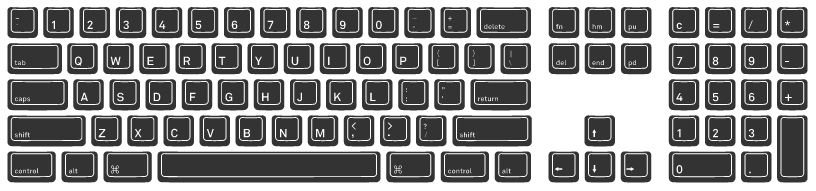
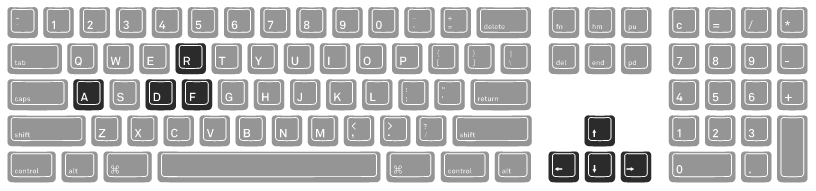
settings page finished, keyboard shortcut help finished

diff --git a/client/settings/index.html b/client/settings/index.html
@@ -4,7 +4,7 @@
   <title>settings</title>
   <meta http-equiv="Content-Type" content="text/html;charset=utf-8">
 
-  <link type="text/css" rel="stylesheet" href="/raindrop/rd_list/index.css">
+  <!--<link type="text/css" rel="stylesheet" href="/raindrop/rd_list/index.css">-->
   <link type="text/css" rel="stylesheet" href="index.css">
 
   <script charset="utf-8" src="/_utils/script/jquery.js?1.3.1"></script>
@@ -52,7 +52,7 @@
     <form id="<%=id%>" class="account <%=kind%>">
       <strong class="name">IMAP</strong>
       <span class="url"><%=host%></span>
-      <a editid="<%=id%>" docid="<%=_id%>" class="delete">delete</a>
+      <a editid="<%=id%>" docid="<%=_id%>" class="delete"></a>
       <table class="login">
         <tr>
           <td><label for="imap-username">username:</label></td>
@@ -73,7 +73,7 @@
         <tr>
           <td>&nbsp;</td>
           <td style="text-align:right;">
-            <button>update</button>
+            <button>ok &#x2714;</button>
           </td>
         </tr>
       </table>
@@ -83,7 +83,7 @@
   <script id="twitterAccountTemplate" type="text/html">
     <form id="<%=id%>" class="account <%=kind%>">
       <strong class="name">Twitter</strong>
-      <a editid="<%=id%>" docid="<%=_id%>" class="delete">delete</a>
+      <a editid="<%=id%>" docid="<%=_id%>" class="delete"></a>
       <span class="url">twitter.com<span class="twitter.com"><%=username%></span></span>
       <table class="login">
         <tr>
@@ -97,7 +97,7 @@
         <tr>
           <td>&nbsp;</td>
           <td style="text-align:right;">
-            <button>update</button>
+            <button>ok &#x2714;</button>
           </td>
         </tr>
       </table>
@@ -107,8 +107,8 @@
   <script id="gmailAccountTemplate" type="text/html">
     <form id="<%=id%>" class="account <%=kind%>">
       <strong class="name">Gmail</strong>
+      <a editid="<%=id%>" docid="<%=_id%>" class="delete"></a>
       <span class="url">mail.google.com</span>
-      <a editid="<%=id%>" docid="<%=_id%>" class="delete">delete</a>
       <table class="login">
         <tr>
           <td><label for="gmail-username">username:</label></td>
@@ -121,7 +121,7 @@
         <tr>
           <td>&nbsp;</td>
           <td style="text-align:right;">
-            <button>update</button>
+            <button>ok &#x2714;</button>
           </td>
         </tr>
       </table>
@@ -132,7 +132,7 @@
     <form id="<%=id%>" class="account <%=kind%>">
       <strong class="name">Skype</strong>
       <span class="url"><%=username%></span>
-      <a editid="<%=id%>" docid="<%=_id%>" class="delete">delete</a>
+      <a editid="<%=id%>" docid="<%=_id%>" class="delete"></a>
       <table class="login">
         <tr>
           <td><label for="skype-username">username:</label></td>
@@ -213,10 +213,11 @@
     });
   </script>
 </head>
-<body>
+<body class="settings">
   <div id="wrap">
-    <a href="#close" onclick="parent.postMessage('settings-done', '*')">close</a>
     <ul id="settings"></ul>
+    <div class="note">*more networks will be added in the near future</div>
+    <a href="#close" class="close" onclick="parent.postMessage('settings-done', '*')"></a>
 
   </div>
 </body>

diff --git a/client/settings/index.css b/client/settings/index.css
@@ -1,8 +1,37 @@
+@import url("/raindrop/inflow/inflow.css");
+
+body.settings {
+  background-color: transparent;
+  background-image: none;
+  
+}
+
 #wrap {
-  margin-right: auto;
-  margin-left: auto;
-  padding: 0;
-  width: 400px;
+  background-image: url("i/accounts.png");
+  background-repeat: no-repeat;
+  left:50%;
+  margin-left:-200px;
+  margin-top:-235px;
+  padding: 165px 0 0 0;
+  position:absolute;
+  top:50%;
+  width:400px;
+}
+
+.note {
+  font-size: x-small;
+  color: #1a1a1a;
+  display: inline-block;
+}
+
+a.close {
+  width: 50px;
+  height: 50px;
+  display: block;
+  position: absolute;
+  top: 0;
+  right: -25px;
+  background-image: url("i/close.png");
 }
 
 #settings {
@@ -15,29 +44,41 @@
 /*** ACCOUNT ***/
 
 .account {
-
+  margin-top: 12px;
 }
 
-.account .name {
+.account .name{
   font-weight: bold;
+  font-variant: small-caps;
+  text-transform: lowercase;
+  letter-spacing: 1px;
+  display: inline-block;
+  height: 24px;
+  line-height: 24px;
+  margin-left: 3px;
 }
 
 .account .url {
   font-size: small;
   font-weight: normal;
-  color: #999;
+  color: #1a1a1a;
+  display: inline-block;
+  margin-right: 3px;
+  float: right;
+  line-height: 24px;
 }
 
 .account a.delete {
-  float: right;
-  margin: 3px 3px 0 0;
-  font-size: xx-small;
-  text-decoration: underline;
-  color: #0066dd;
-  cursor: pointer;
-}
-.account a.delete:hover {
-  color: rgb(200,20,20);
+  background-image:url("../lib/rdw/css/i/overlay_delete.png");
+  background-position:left center;
+  background-repeat:no-repeat;
+  color:#1A1A1A;
+  cursor:pointer;
+  display:inline-block;
+  float:left;
+  height:24px;
+  margin:0 3px 0 2px;
+  width:16px;
 }
 
 /*** TWITTER ***/
@@ -68,3 +109,9 @@ table.login input {
   -moz-box-sizing: border-box;
 }
 
+button {
+  background-color: #1a1a1a;
+  color: #FFFFFF;
+  border: none;
+  -moz-border-radius: 5px;
+}

diff --git a/client/inflow/inflow.css b/client/inflow/inflow.css
@@ -14,8 +14,8 @@
 
 body {
   background-color: #e6e6e6;
+  background-image: url("i/bg.png");
   margin: 0px 0px 0px 0px;
-  background-repeat: repeat-x;
 }
 
 a img{
@@ -99,8 +99,6 @@ a img{
   min-width: 25em;
   max-width: 55em;
   background-color: #e6e6e6;
-  border-right: 1px solid #e6e6e6;
-  margin-left: 36px;
 }
 
 #newcompose {
@@ -119,6 +117,7 @@ a img{
   background-image: url("i/keyboard/keyboard.png");
   background-repeat: no-repeat;
   -moz-border-radius: 5px;
+  -moz-box-shadow: -5px 5px 0 #888888;
   padding: 8px;
   display:none;
   position: fixed;
@@ -153,7 +152,6 @@ a img{
   display: table-cell;
   width: 40em;
   padding-bottom: 24px;
-  background-image: url("i/bg.png");
 }
 
 #mainList {
@@ -167,7 +165,7 @@ a img{
   min-height: 40ex;
   vertical-align: top;
   padding-bottom: 800px;
-  padding-top: 123px;
+  padding-top: 86px;
 }
 
 .miniOrganizer {
@@ -201,18 +199,23 @@ a img{
 .inflowAddAccountFrame {
   width: 500px;
   height: 500px;
+  outline: none;
 }
 
 .inflowAddAccountFrame  .dijitDialogPaneContent {
   overflow: hidden;
+  outline: none;
  }
 
 .inflowAddAccountFrame iframe {
   width: 500px;
   height: 500px;
   border: 0;
+  outline: none;
 }
 
 .inflowAddAccountFrame_underlay {
   opacity: 0.9;
+  background-color: #FFF !important;
+  outline: none;
 }

diff --git a/client/lib/rdw/css/Account.css b/client/lib/rdw/css/Account.css
@@ -1,3 +1,19 @@
 .rdwAccount {
+  font-size: x-small;
+  height: 13px;
+  margin: 12px 0;
+  padding: 0 8px 0 8px;
+  color: #1a1a1a;
+}
 
+.rdwAccount a {
+  text-decoration: none;
+  color: #1a1a1a;
+  float: right;
+  font-family: Droid-serif, Georgia, Times, serif;
+  font-style: italic;
+}
+
+.rdwAccount a:hover {
+  text-decoration: underline;
 }

diff --git a/client/lib/rdw/css/Story.css b/client/lib/rdw/css/Story.css
@@ -97,15 +97,3 @@
 .rdwStory.deleted .delete {
   display: none;
 }
-
-.shadow {
-  background-color: transparent;
-  background-image: url("i/shadow.png");
-  height:8px;
-  position: absolute;
-  right: 0px;
-  width:100%;
-  background-position: center;
-  background-repeat: no-repeat;
-  opacity:0.5;
-}

diff --git a/client/lib/rdw/css/QuickCompose.css b/client/lib/rdw/css/QuickCompose.css
@@ -273,7 +273,6 @@
 .rdwStory .QuickCompose {
   margin: 8px 0 0 0;
   -moz-border-radius: 5px;
-  -moz-box-shadow: 0 1px 3px #CCCCCC;
 }
 
 .rdwStory.active .QuickCompose,

diff --git a/client/lib/rdw/css/Message.css b/client/lib/rdw/css/Message.css
@@ -83,6 +83,7 @@
   text-decoration: none;
   text-indent: -200em;
   font-weight: bold;
+  outline: none;
 }
 
 .rdwMessage:hover .topActions a {

diff --git a/client/bespin/dijit/themes/dijit.css b/client/bespin/dijit/themes/dijit.css
@@ -1305,7 +1305,7 @@ img.dijitColorPaletteUnder {
 }
 
 .dijitDialogUnderlay {
-	background: #eee;
+	background: #EEE;
 	opacity: 0.5;
 }
 

diff --git a/client/lib/rdw/templates/Message.html b/client/lib/rdw/templates/Message.html
@@ -25,5 +25,4 @@
     </div>
   </div>
   <div class="triangle"></div>
-  <div class="shadow"></div>
 </div>

diff --git a/client/lib/rdw/templates/MessageUnknown.html b/client/lib/rdw/templates/MessageUnknown.html
@@ -26,5 +26,4 @@
     </div>
   </div>
   <div class="triangle"></div>
-  <div class="shadow"></div>
 </div>
